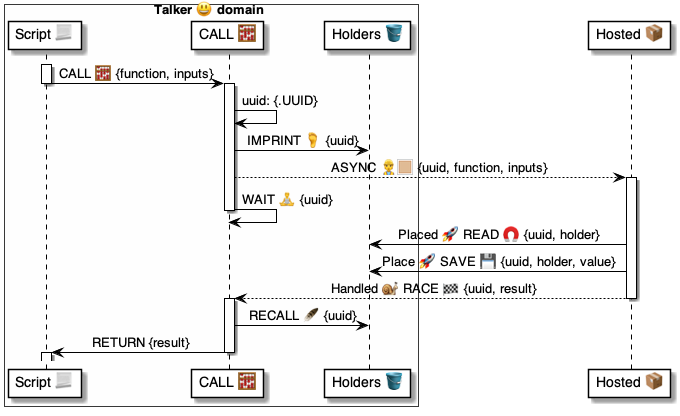
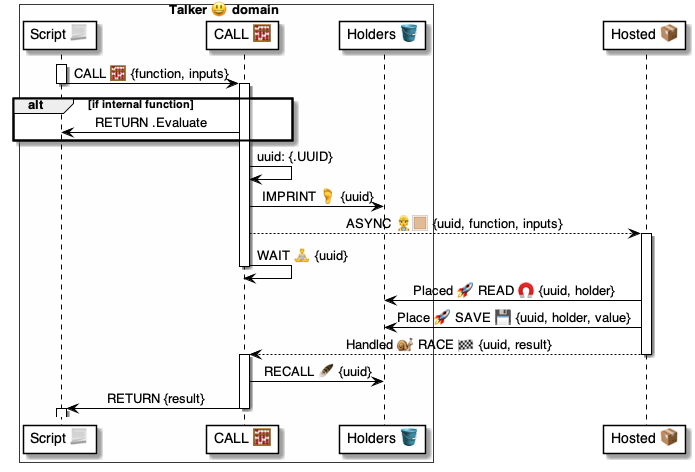
.

diff --git a/4 ⚙ Solution/37 Scripts 📃/📃 Commands ⌘/⌘ for async/CALL 🧮/🧮 CALL 📃 script.md b/4 ⚙ Solution/37 Scripts 📃/📃 Commands ⌘/⌘ for async/CALL 🧮/🧮 CALL 📃 script.md
@@ -1,0 +1,60 @@
+# 😃📃 `.CALL` script
+
+> Purpose
+* [Script 📃](<../../../../35 💬 Chats/Scripts 📃/Script 📃.md>) that implements the [`CALL`](<🧮 CALL ⌘ cmd.md>) command.
+
+
+<br/>
+
+## Diagram
+
+![alt text](<🧮 CALL ⚙ uml.png>)
+
+<br/>
+
+## How to call
+
+```yaml
+- RUN|.CALL:
+    Name: <name>
+    Inputs: {...}           # Optional
+```
+
+<br/>
+
+## Script
+
+```yaml
+📃 .CALL:
+
+# Assert the inputs
+- ASSERT|$.Inputs:
+    AllOf: Name
+
+# Return immediately for internal functions
+- IF|$Name.StartsWith(.):
+    RETURN:
+        .Evaluate:
+            - $Name.Require
+            - $Inputs
+
+# If it got here, then it's external
+- PUT|.UUID >> $uuid:     # Generate a unique ID
+- IMPRINT|$uuid           # Save the current state
+
+- ASYNC:                  # Call the script asynchronously
+    Hook: $uuid
+    Script: $Name.Require
+    Inputs: $Inputs
+
+- WAIT|$uuid >> $result:  # Wait for the RACE command
+- RECALL|$uuid            # Restore the previous state
+- RETURN|$result          # Return the result of the call
+```
+
+|Uses||
+|-|-
+| [Commands ⌘](<../../../../35 💬 Chats/Scripts 📃/Command ⌘.md>) | [`ASYNC`](<../ASYNC 👷🏼/👷🏼 ASYNC ⌘ cmd.md>) [`IMPRINT`](<../IMPRINT 🦶/🦶 IMPRINT ⌘ cmd.md>)   [`PUT`](<../../⌘ for holders 🧠/PUT ⬇/⬇ PUT ⌘ cmd.md>) [`RECALL`](<../RECALL 🪶/🪶 RECALL ⌘ cmd.md>) [`RETURN`](<../../⌘ for control ▶/RETURN ⤴/⤴ RETURN ⌘ cmd.md>) [`WAIT`](<../WAIT 🧘/🧘 WAIT ⌘ cmd.md>) |
+| [{Functions} 🐍](<../../../../35 💬 Chats/Scripts 📃/Function 🐍.md>) | [`.UUID`](<../../../📃 Functions 🐍/🐍 System 🔩 functions/UUID ⓕ.md>) [`.StartsWith`](<../../../📃 Functions 🐍/🐍 System 🔩 functions/StartsWith ⓕ.md>) [`.Evaluate`](<../../../📃 Functions 🐍/🐍 System 🔩 functions/Evaluate ⓕ.md>)
+| [Holders 🧠](<../../../../35 💬 Chats/Scripts 📃/Holder 🧠.md>) | [`$.Inputs`](<../../../📃 Holders 🧠/System holders 🔩/$.Inputs 🏃/▶ $.Inputs 🧠 holder.md>)
+|

diff --git a/4 ⚙ Solution/37 Scripts 📃/📃 Commands ⌘/⌘ for methods 🤵/BIND 🔗/🔗 BIND 📃 script.md b/4 ⚙ Solution/37 Scripts 📃/📃 Commands ⌘/⌘ for methods 🤵/BIND 🔗/🔗 BIND 📃 script.md
@@ -3,7 +3,7 @@
 > Purpose
 * [Script 📃](<../../../../35 💬 Chats/Scripts 📃/Script 📃.md>) that implements the [`BIND`](<🔗 BIND ⌘ cmd.md>) command.
 * Part of the [🧑🦰 `Bind Vault` ⏩ flow](<../../../../20 🧑🦰 UI/Wallets 🧑🦰/🧑🦰💬 Wallet chats/...in Prompts 🤔/Bind 👉🗄🔗/🧑🦰 Bind Vault ⏩ flow.md>)
-* Part of the 
+
 
 
 <br/>
@@ -64,5 +64,5 @@ Uses: [`RUN`](<../../⌘ for control ▶/RUN 🏃/🏃 RUN ⌘ cmd.md>)
 |-|-
 | [Commands ⌘](<../../../../35 💬 Chats/Scripts 📃/Command ⌘.md>) | [`ASSERT`](<../../⌘ for holders 🧠/ASSERT 🚦/🚦 ASSERT ⌘ cmd.md>) [`RETURN`](<../../⌘ for control ▶/RETURN ⤴/⤴ RETURN ⌘ cmd.md>) [`SAVE`](<../../⌘ for datasets 🪣/SAVE 💾/💾 SAVE ⌘ cmd.md>) [`WAIT`](<../../⌘ for async/WAIT 🧘/🧘 WAIT ⌘ cmd.md>)
 | [Datasets 🪣](<../../../../30 🧩 Data/Datasets 🪣/🪣 Dataset.md>) | [`Vault.Binds` 🪣 table](<../../../../41 🎭 Domain Roles/Vaults 🗄/🗄🪣 Vault tables/Binds 🔗 table/🪣 Binds/🗄 Vault.Binds 🪣 table.md>)
-| [Holders 🧠](<../../../../35 💬 Chats/Scripts 📃/Holder 🧠.md>) | [`$.Chat`](<../../../📃 Holders 🧠/System holders 🔩/$.Chat 💬/💬 $.Chat 🧠 holder.md>)
+| [Holders 🧠](<../../../../35 💬 Chats/Scripts 📃/Holder 🧠.md>) | [`$.Chat`](<../../../📃 Holders 🧠/System holders 🔩/$.Chat 💬/💬 $.Chat 🧠 holder.md>) [`$.Inputs`](<../../../📃 Holders 🧠/System holders 🔩/$.Inputs 🏃/▶ $.Inputs 🧠 holder.md>)
 |

diff --git a/4 ⚙ Solution/37 Scripts 📃/📃 Prompts 🤔/🤔 Status ⚠ prompts/INFO ℹ/INFO 📃 script.md b/4 ⚙ Solution/37 Scripts 📃/📃 Prompts 🤔/🤔 Status ⚠ prompts/INFO ℹ/INFO 📃 script.md
@@ -32,6 +32,6 @@ Uses||
 |-|-
 | [Commands ⌘](<../../../../35 💬 Chats/Scripts 📃/Command ⌘.md>) | [`ASSERT`](<../../../../37 Scripts 📃/📃 Commands ⌘/⌘ for holders 🧠/ASSERT 🚦/🚦 ASSERT ⌘ cmd.md>) [`CASE`](<../../../../37 Scripts 📃/📃 Commands ⌘/⌘ for control ▶/CASE ⏯/⏯ CASE ⌘ cmd.md>) [`RUN`](<../../../📃 Commands ⌘/⌘ for control ▶/RUN 🏃/🏃 RUN ⌘ cmd.md>) [`SEND`](<../../../../37 Scripts 📃/📃 Commands ⌘/⌘ for messages 📨/SEND 📬/📬 SEND ⌘ cmd.md>)
 | [Messages 📨](<../../../../30 🧩 Data/Messages 📨/📨 Message/📨 Message.md>) | [`Prompt@Broker` 🅰 method](<../../../../20 🧑🦰 UI/Brokers 🤵/🤵 Broker helper/🤵 Broker 🤲 helper.md>)
-| [Holders 🧠](<../../../../35 💬 Chats/Scripts 📃/Holder 🧠.md>) | [`$.Chat`](<../../../📃 Holders 🧠/System holders 🔩/$.Chat 💬/💬 $.Chat 🧠 holder.md>)
+| [Holders 🧠](<../../../../35 💬 Chats/Scripts 📃/Holder 🧠.md>) | [`$.Chat`](<../../../📃 Holders 🧠/System holders 🔩/$.Chat 💬/💬 $.Chat 🧠 holder.md>) [`$.Inputs`](<../../../📃 Holders 🧠/System holders 🔩/$.Inputs 🏃/▶ $.Inputs 🧠 holder.md>)
 | [Scripts 📃](<../../../../35 💬 Chats/Scripts 📃/Script 📃.md>) | [`Prompt@Host` 📃 script](<../../../📃 Commands ⌘/⌘ for methods 🤵/PROMPT 🤔/🤔 PROMPT 📃 script.md>)
 |

diff --git a/4 ⚙ Solution/37 Scripts 📃/📃 Commands ⌘/⌘ for methods 🤵/ISSUE 🎫/🎫 ISSUE 📃 script.md b/4 ⚙ Solution/37 Scripts 📃/📃 Commands ⌘/⌘ for methods 🤵/ISSUE 🎫/🎫 ISSUE 📃 script.md
@@ -62,6 +62,6 @@ Uses||
 |-|-
 |[Commands ⌘](<../../../../35 💬 Chats/Scripts 📃/Command ⌘.md>)| [`ASSERT`](<../../⌘ for holders 🧠/ASSERT 🚦/🚦 ASSERT ⌘ cmd.md>) [`RETURN`](<../../⌘ for control ▶/RETURN ⤴/⤴ RETURN ⌘ cmd.md>) [`SAVE`](<../../⌘ for datasets 🪣/SAVE 💾/💾 SAVE ⌘ cmd.md>)  [`WAIT`](<../../⌘ for async/WAIT 🧘/🧘 WAIT ⌘ cmd.md>)
 | [Datasets 🪣](<../../../../30 🧩 Data/Datasets 🪣/🪣 Dataset.md>) | [`Issuer.Tokens`](<../../../../41 🎭 Domain Roles/Issuers 🎴/🎴🪣 Issuer tables/Tokens 🎫 table/🪣 Tokens/🎴 Issuer.Tokens 🪣 table.md>)
-| [Holders 🧠](<../../../../35 💬 Chats/Scripts 📃/Holder 🧠.md>) | [`.Chat`](<../../../📃 Holders 🧠/System holders 🔩/$.Chat 💬/💬 $.Chat 🧠 holder.md>)
+| [Holders 🧠](<../../../../35 💬 Chats/Scripts 📃/Holder 🧠.md>) | [`.Chat`](<../../../📃 Holders 🧠/System holders 🔩/$.Chat 💬/💬 $.Chat 🧠 holder.md>)  [`$.Inputs`](<../../../📃 Holders 🧠/System holders 🔩/$.Inputs 🏃/▶ $.Inputs 🧠 holder.md>)
 | [Messages 📨](<../../../../30 🧩 Data/Messages 📨/📨 Message/📨 Message.md>) | [`Issue@Broker` 🅰 method](<../../../../20 🧑🦰 UI/Brokers 🤵/🤵🅰 Broker methods/Tokens 🎫 Issue 🎴🐌🤵/🤵 Issue 🐌 msg.md>) 
 |

diff --git a/4 ⚙ Solution/37 Scripts 📃/📃 Commands ⌘/⌘ for methods 🤵/TRANSLATE 🈯/🈯 TRANSLATE 📃 script.md b/4 ⚙ Solution/37 Scripts 📃/📃 Commands ⌘/⌘ for methods 🤵/TRANSLATE 🈯/🈯 TRANSLATE 📃 script.md
@@ -58,5 +58,6 @@ Uses||
 |-|-
 | [Commands ⌘](<../../../../35 💬 Chats/Scripts 📃/Command ⌘.md>) | [`ASSERT`](<../../⌘ for holders 🧠/ASSERT 🚦/🚦 ASSERT ⌘ cmd.md>) [`DEFAULT`](<../../⌘ for holders 🧠/DEFAULT 📭/📭 DEFAULT ⌘ cmd.md>) [`IF`](<../../⌘ for control ▶/IF ⤵/⤵ IF ⌘ cmd.md>) [`RETURN`](<../../⌘ for control ▶/RETURN ⤴/⤴ RETURN ⌘ cmd.md>) [`SEND`](<../../⌘ for messages 📨/SEND 📬/📬 SEND ⌘ cmd.md>)
 | [{Functions} 🐍](<../../../../35 💬 Chats/Scripts 📃/Function 🐍.md>) | [`.AnyOf`](<../../../📃 Functions 🐍/🐍 System 🔩 functions/AnyOf ⓕ.md>) [`.Translate`](<../../../📃 Functions 🐍/🐍 System 🔩 functions/Translate ⓕ.md>)
+| [Holders 🧠](<../../../../35 💬 Chats/Scripts 📃/Holder 🧠.md>) | [`$.Inputs`](<../../../📃 Holders 🧠/System holders 🔩/$.Inputs 🏃/▶ $.Inputs 🧠 holder.md>)
 | [Messages 📨](<../../../../30 🧩 Data/Messages 📨/📨 Message/📨 Message.md>) | [`About@Graph`](<../../../../45 🤲 Helper domains/Graphs 🕸/🕸🅰 Graph methods/👥🚀🕸 About/🕸 About 🚀 call.md>) [`Schema@Graph`](<../../../../45 🤲 Helper domains/Graphs 🕸/🕸🅰 Graph methods/👥🚀🕸 Schema/🕸 Schema 🚀 call.md>)
 |

diff --git a/4 ⚙ Solution/37 Scripts 📃/📃 Commands ⌘/⌘ for messages 📨/TRUSTS 🫡/🫡 TRUSTS 📃 script.md b/4 ⚙ Solution/37 Scripts 📃/📃 Commands ⌘/⌘ for messages 📨/TRUSTS 🫡/🫡 TRUSTS 📃 script.md
@@ -50,5 +50,5 @@ Uses||
 |-|-
 | [Commands ⌘](<../../../../35 💬 Chats/Scripts 📃/Command ⌘.md>) | [`ASSERT`](<../../⌘ for holders 🧠/ASSERT 🚦/🚦 ASSERT ⌘ cmd.md>) [`DEFAULT`](<../../⌘ for holders 🧠/DEFAULT 📭/📭 DEFAULT ⌘ cmd.md>) [`SEND`](<../SEND 📬/📬 SEND ⌘ cmd.md>)
 | [Messages 📨](<../../../../30 🧩 Data/Messages 📨/📨 Message/📨 Message.md>) | [`Trusts@Graph`](<../../../../45 🤲 Helper domains/Graphs 🕸/🕸🅰 Graph methods/👥🚀🕸 Trusts/🕸 Trusts 🚀 call.md>)
-| [Holders 🧠](<../../../../35 💬 Chats/Scripts 📃/Holder 🧠.md>) | [`$.Msg`](<../../../📃 Holders 🧠/System holders 🔩/$.Msg 📨/📨 $.Msg 🧠 holder.md>) [`$.Hosted`](<../../../📃 Holders 🧠/System holders 🔩/$.Hosted 📦/📦 $.Hosted 🧠 holder.md>)
+| [Holders 🧠](<../../../../35 💬 Chats/Scripts 📃/Holder 🧠.md>) | [`$.Msg`](<../../../📃 Holders 🧠/System holders 🔩/$.Msg 📨/📨 $.Msg 🧠 holder.md>) [`$.Hosted`](<../../../📃 Holders 🧠/System holders 🔩/$.Hosted 📦/📦 $.Hosted 🧠 holder.md>) [`$.Inputs`](<../../../📃 Holders 🧠/System holders 🔩/$.Inputs 🏃/▶ $.Inputs 🧠 holder.md>)
 |

diff --git a/4 ⚙ Solution/37 Scripts 📃/📃 Commands ⌘/⌘ for methods 🤵/ASK 🙋/🙋 ASK 📃 script.md b/4 ⚙ Solution/37 Scripts 📃/📃 Commands ⌘/⌘ for methods 🤵/ASK 🙋/🙋 ASK 📃 script.md
@@ -54,7 +54,10 @@ Here's the [Script 📃](<../../../../35 💬 Chats/Scripts 📃/Script 📃.md>
 - RETURN|$selected
 ```
 
-Uses: [`ASSERT`](<../../⌘ for holders 🧠/ASSERT 🚦/🚦 ASSERT ⌘ cmd.md>) [`CALL`](<../../⌘ for async/CALL 🧮/🧮 CALL ⌘ cmd.md>) [`MANY`](<../../../📃 Prompts 🤔/🤔 Input ✏ prompts/MANY 🔠/🔠 MANY ⌘ cmd.md>) [`RETURN`](<../../⌘ for control ▶/RETURN ⤴/⤴ RETURN ⌘ cmd.md>) [`RUN`](<../../⌘ for control ▶/RUN 🏃/🏃 RUN ⌘ cmd.md>)
+Uses||
+|-|-
+|[Commands ⌘](<../../../../35 💬 Chats/Scripts 📃/Command ⌘.md>) | [`ASSERT`](<../../⌘ for holders 🧠/ASSERT 🚦/🚦 ASSERT ⌘ cmd.md>) [`CALL`](<../../⌘ for async/CALL 🧮/🧮 CALL ⌘ cmd.md>) [`MANY`](<../../../📃 Prompts 🤔/🤔 Input ✏ prompts/MANY 🔠/🔠 MANY ⌘ cmd.md>) [`RETURN`](<../../⌘ for control ▶/RETURN ⤴/⤴ RETURN ⌘ cmd.md>) [`RUN`](<../../⌘ for control ▶/RUN 🏃/🏃 RUN ⌘ cmd.md>) 
+| [Holders 🧠](<../../../../35 💬 Chats/Scripts 📃/Holder 🧠.md>) | [`$.Inputs`](<../../../📃 Holders 🧠/System holders 🔩/$.Inputs 🏃/▶ $.Inputs 🧠 holder.md>)
 
 ---
 <br/>

diff --git a/4 ⚙ Solution/37 Scripts 📃/📃 Commands ⌘/⌘ for datasets 🪣/DELETE 🗑/🗑 DELETE 📃 script.md b/4 ⚙ Solution/37 Scripts 📃/📃 Commands ⌘/⌘ for datasets 🪣/DELETE 🗑/🗑 DELETE 📃 script.md
@@ -56,5 +56,5 @@ Uses||
 |-|-
 | [Commands ⌘](<../../../../35 💬 Chats/Scripts 📃/Command ⌘.md>) | [`ASSERT`](<../../⌘ for holders 🧠/ASSERT 🚦/🚦 ASSERT ⌘ cmd.md>) [`SEND`](<../../⌘ for messages 📨/SEND 📬/📬 SEND ⌘ cmd.md>) [`RETURN`](<../../⌘ for control ▶/RETURN ⤴/⤴ RETURN ⌘ cmd.md>) [`RUN`](<../../⌘ for control ▶/RUN 🏃/🏃 RUN ⌘ cmd.md>)
 | [Messages 📨](<../../../../30 🧩 Data/Messages 📨/📨 Message/📨 Message.md>) | [`Delete@Itemizer`](<../../../../45 🤲 Helper domains/Itemizers 🛢/🛢🅰 Itemizer methods/Item Delete 👥🚀🛢/🛢 Delete 🚀 call.md>)
-| [Holders 🧠](<../../../../35 💬 Chats/Scripts 📃/Holder 🧠.md>) | [`$.Hosted`](<../../../📃 Holders 🧠/System holders 🔩/$.Hosted 📦/📦 $.Hosted 🧠 holder.md>)
+| [Holders 🧠](<../../../../35 💬 Chats/Scripts 📃/Holder 🧠.md>) | [`$.Hosted`](<../../../📃 Holders 🧠/System holders 🔩/$.Hosted 📦/📦 $.Hosted 🧠 holder.md>) [`$.Inputs`](<../../../📃 Holders 🧠/System holders 🔩/$.Inputs 🏃/▶ $.Inputs 🧠 holder.md>)
 |

diff --git a/4 ⚙ Solution/37 Scripts 📃/📃 Commands ⌘/⌘ for holders 🧠/CHAT 💬/💬 CHAT 📃 script.md b/4 ⚙ Solution/37 Scripts 📃/📃 Commands ⌘/⌘ for holders 🧠/CHAT 💬/💬 CHAT 📃 script.md
@@ -62,7 +62,7 @@ Uses||
 |-|-
 |[Commands ⌘](<../../../../35 💬 Chats/Scripts 📃/Command ⌘.md>) | [`ASSERT`](<../ASSERT 🚦/🚦 ASSERT ⌘ cmd.md>) [`READ`](<../../⌘ for datasets 🪣/READ 🧲/🧲 READ ⌘ cmd.md>) [`SAVE`](<../../⌘ for datasets 🪣/SAVE 💾/💾 SAVE ⌘ cmd.md>) [`SAVE`](<../../⌘ for datasets 🪣/SAVE 💾/💾 SAVE ⌘ cmd.md>) [`SET`](<../SET ↘/↘ SET ⌘ cmd.md>)
 |[Datasets 🪣](<../../../../30 🧩 Data/Datasets 🪣/🪣 Dataset.md>) | [`HostChats`](<../../../../41 🎭 Domain Roles/Hosts 🤗/🤗🪣 Host tables/Chats 💬 table/🪣 Chats/🤗 Host.Chats 🪣 table.md>)
-[Holders 🧠](<../../../../35 💬 Chats/Scripts 📃/Holder 🧠.md>) | [`$.Chat` 🧠 holder](<../../../📃 Holders 🧠/System holders 🔩/$.Chat 💬/💬 $.Chat 🧠 holder.md>)
+[Holders 🧠](<../../../../35 💬 Chats/Scripts 📃/Holder 🧠.md>) | [`$.Chat`](<../../../📃 Holders 🧠/System holders 🔩/$.Chat 💬/💬 $.Chat 🧠 holder.md>) [`$.Inputs`](<../../../📃 Holders 🧠/System holders 🔩/$.Inputs 🏃/▶ $.Inputs 🧠 holder.md>)
 |
 
 ## FAQ

diff --git a/4 ⚙ Solution/37 Scripts 📃/📃 Commands ⌘/⌘ for control ▶/REGISTER 🔆/🔆 REGISTER 📃 script.md b/4 ⚙ Solution/37 Scripts 📃/📃 Commands ⌘/⌘ for control ▶/REGISTER 🔆/🔆 REGISTER 📃 script.md
@@ -14,7 +14,7 @@
 📃 .REGISTER:
 
 # Assert the inputs
-- ASSERT|.Inputs:
+- ASSERT|$.Inputs:
     AllOf: Script
     Texts: Script
 
@@ -37,7 +37,7 @@ Uses||
 |-|-
 | [Commands ⌘](<../../../../35 💬 Chats/Scripts 📃/Command ⌘.md>) | [`ASSERT`](<../../⌘ for holders 🧠/ASSERT 🚦/🚦 ASSERT ⌘ cmd.md>) [`SAVE`](<../../⌘ for datasets 🪣/SAVE 💾/💾 SAVE ⌘ cmd.md>)
 | [Datasets 🪣](<../../../../30 🧩 Data/Datasets 🪣/🪣 Dataset.md>) | [`Talker.Talkers` 🪣 table](<../../../../35 💬 Chats/Talkers 😃/😃🪣 Talker tables/😃 Talker.Talkers 🪣 table.md>)
-| [Holders 🧠](<../../../../35 💬 Chats/Scripts 📃/Holder 🧠.md>) |  [`$.Hosted`](<../../../📃 Holders 🧠/System holders 🔩/$.Hosted 📦/📦 $.Hosted 🧠 holder.md>)
+| [Holders 🧠](<../../../../35 💬 Chats/Scripts 📃/Holder 🧠.md>) |  [`$.Hosted`](<../../../📃 Holders 🧠/System holders 🔩/$.Hosted 📦/📦 $.Hosted 🧠 holder.md>) [`$.Inputs`](<../../../📃 Holders 🧠/System holders 🔩/$.Inputs 🏃/▶ $.Inputs 🧠 holder.md>)
 |
 
 ## FAQ

diff --git a/4 ⚙ Solution/37 Scripts 📃/📃 Commands ⌘/⌘ for datasets 🪣/UNDO ↩/↩ UNDO 📃 script.md b/4 ⚙ Solution/37 Scripts 📃/📃 Commands ⌘/⌘ for datasets 🪣/UNDO ↩/↩ UNDO 📃 script.md
@@ -41,5 +41,5 @@ Uses||
 |-|-
 | [Commands ⌘](<../../../../35 💬 Chats/Scripts 📃/Command ⌘.md>) | [`ASSERT`](<../../⌘ for holders 🧠/ASSERT 🚦/🚦 ASSERT ⌘ cmd.md>) [`SEND`](<../../⌘ for messages 📨/SEND 📬/📬 SEND ⌘ cmd.md>) [`RUN`](<../../⌘ for control ▶/RUN 🏃/🏃 RUN ⌘ cmd.md>)
 | [Messages 📨](<../../../../30 🧩 Data/Messages 📨/📨 Message/📨 Message.md>) | [`Undo@Itemizer` 🅰 method](<../../../../45 🤲 Helper domains/Itemizers 🛢/🛢🅰 Itemizer methods/Item Undo 👥🚀🛢/🛢 Undo 🚀 call.md>)
-| [Holders 🧠](<../../../../35 💬 Chats/Scripts 📃/Holder 🧠.md>) | [`$.Hosted`](<../../../📃 Holders 🧠/System holders 🔩/$.Hosted 📦/📦 $.Hosted 🧠 holder.md>)
+| [Holders 🧠](<../../../../35 💬 Chats/Scripts 📃/Holder 🧠.md>) | [`$.Hosted`](<../../../📃 Holders 🧠/System holders 🔩/$.Hosted 📦/📦 $.Hosted 🧠 holder.md>)  [`$.Inputs`](<../../../📃 Holders 🧠/System holders 🔩/$.Inputs 🏃/▶ $.Inputs 🧠 holder.md>)
 |

diff --git a/4 ⚙ Solution/37 Scripts 📃/📃 Commands ⌘/⌘ for async/ALARM ⏰/⏰ ALARM 📃 script.md b/4 ⚙ Solution/37 Scripts 📃/📃 Commands ⌘/⌘ for async/ALARM ⏰/⏰ ALARM 📃 script.md
@@ -38,7 +38,7 @@ Uses||
 |-|-
 | [Commands ⌘](<../../../../35 💬 Chats/Scripts 📃/Command ⌘.md>) | [`ASSERT`](<../../⌘ for holders 🧠/ASSERT 🚦/🚦 ASSERT ⌘ cmd.md>) [`SEND`](<../../⌘ for messages 📨/SEND 📬/📬 SEND ⌘ cmd.md>)
 | [Messages 📨](<../../../../30 🧩 Data/Messages 📨/📨 Message/📨 Message.md>) | [`Trigger@Alarm` 🅰 method](<../../../../45 🤲 Helper domains/Alarms ⏰/⏰🅰 Alarm methods/Trigger 👥🐌⏰/⏰ Trigger 🐌 msg.md>)
-| [Holders 🧠](<../../../../35 💬 Chats/Scripts 📃/Holder 🧠.md>) | [`$.Hosted`](<../../../📃 Holders 🧠/System holders 🔩/$.Hosted 📦/📦 $.Hosted 🧠 holder.md>)
+| [Holders 🧠](<../../../../35 💬 Chats/Scripts 📃/Holder 🧠.md>) | [`$.Hosted`](<../../../📃 Holders 🧠/System holders 🔩/$.Hosted 📦/📦 $.Hosted 🧠 holder.md>)  [`$.Inputs`](<../../../📃 Holders 🧠/System holders 🔩/$.Inputs 🏃/▶ $.Inputs 🧠 holder.md>)
 |
 
 ## Event handler
